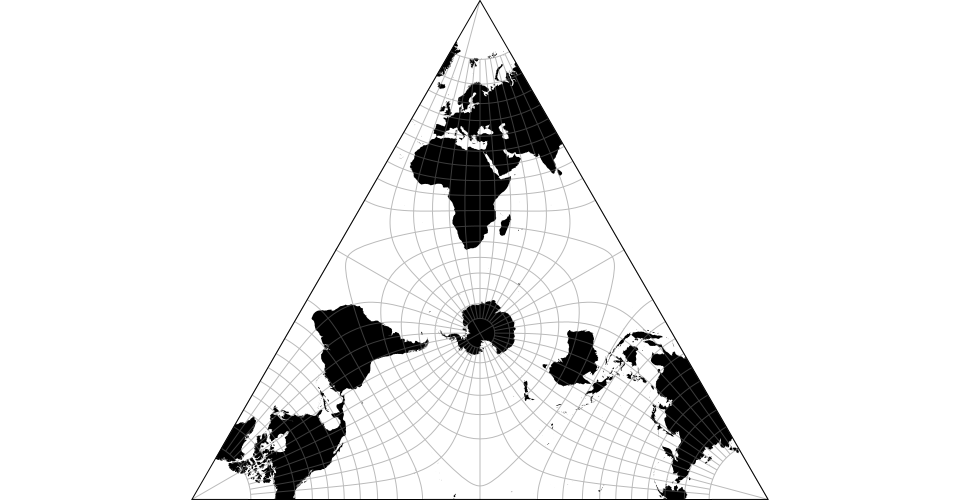
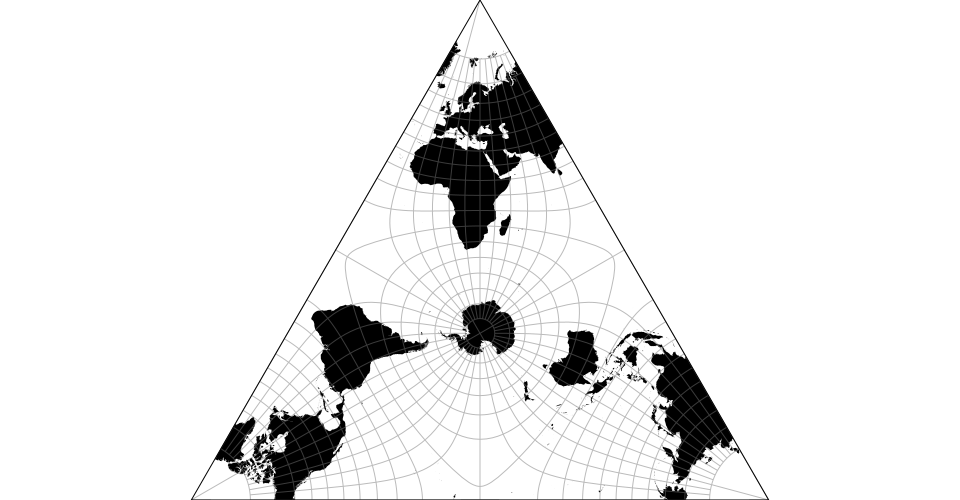
better fit to 960x500

diff --git a/src/polyhedral/lee.js b/src/polyhedral/lee.js
@@ -157,6 +157,6 @@ export default function() {
     .precision(0.05)
     .rotate([-30, 0])
     //.rotate([30, 180]) // for North Pole aspect, needs clipPolygon
-    .scale(118.662)
-    .center([0,-35.3141]);
+    .scale(118.899)
+    .center([0,-35.315]);
 }
